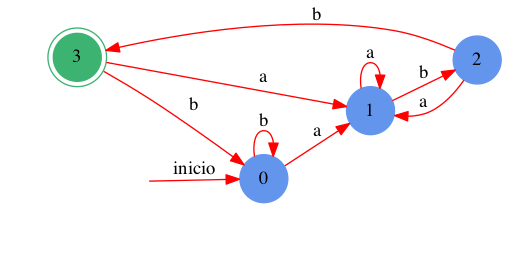
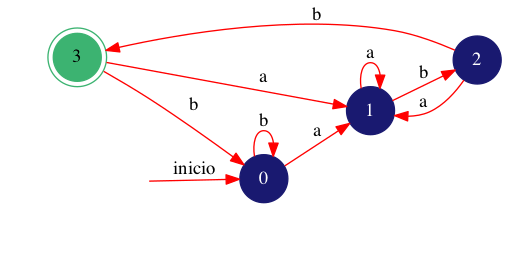
Arreglar árbol sintáctico

Changed region(s): [[0.8876, 0.1231, 1.0, 0.3385], [0.6805, 0.3077, 0.7988, 0.5231], [0.4734, 0.5846, 0.5917, 0.8]]

diff --git a/src/thomson/SyntaxTree.java b/src/thomson/SyntaxTree.java
@@ -8,6 +8,7 @@ package thomson;
 import java.util.ArrayList;
 import java.util.LinkedList;
 import java.util.Queue;
+import java.util.Stack;
 
 
 /**
@@ -19,7 +20,7 @@ public class SyntaxTree<T> {
 
     private Nodo<T> root;       //nodo raiz del arbol
     private Nodo<T> actual;     //un nodo actual, sirve para despues definir el raiz
-    private Queue pila;         //en realidad es una cola, para meter nodos
+    private Stack pila;         //en realidad es una cola, para meter nodos
     private ArrayList arrayNodos;//se guardan todos los nodos creados
     
     
@@ -29,7 +30,7 @@ public class SyntaxTree<T> {
     */
     public SyntaxTree(){
         this.arrayNodos = new ArrayList();
-        this.pila = new LinkedList();
+        this.pila = new Stack();
         this.root= new Nodo("");
     }
 
@@ -40,6 +41,7 @@ public class SyntaxTree<T> {
     public void buildTree(String cadenaEnPrefix){
         
         this.root = new Nodo(cadenaEnPrefix);
+        pila.add(this.root);
         buildPostFixTree((Nodo<T>) this.root);
         this.root=this.actual;
         
@@ -53,22 +55,24 @@ public class SyntaxTree<T> {
      */
     private void buildPostFixTree(Nodo<T> nodo){
        
+      
         String texto_postfix = (String) nodo.getRegex();
+       
         char letra_inicial = texto_postfix.charAt(0);
        
+        System.out.println("letra inicial " + letra_inicial);
         //verificar si es un símbolo. Si lo es poner de una vez en la rama
         if(letra_inicial!='*'&&letra_inicial!='|'&&letra_inicial!='.'){
             
             String sub_cadena = texto_postfix.substring(1);
-          
+            System.out.println(sub_cadena);
             Nodo nuevo = new Nodo((sub_cadena));
             nuevo.setId(""+letra_inicial);
             nuevo.setIsLeaf(true);
             arrayNodos.add(nuevo);
             
             //nuevo.setIsLeaf(true);
-            if (pila.isEmpty())
-                pila.add(nodo);
+           
             pila.remove(this.root);
             pila.add(nuevo);
             buildPostFixTree(nuevo);
@@ -85,10 +89,11 @@ public class SyntaxTree<T> {
                 //obtener un operador
                 //se le asigna el nombre al nodo principal
                 String sub_cadena = texto_postfix.substring(1);
+                System.out.println(sub_cadena);
                 Nodo nuevo = new Nodo(sub_cadena);
                 nuevo.setId((T) (""+letra_inicial));
                 
-                Nodo nodoPila = nodo;
+                Nodo nodoPila = (Nodo)pila.pop();
                 nuevo.setIzquierda(nodoPila);
                 arrayNodos.add(nuevo);
                 
@@ -97,6 +102,7 @@ public class SyntaxTree<T> {
                 nodo.setIzquierda(new Nodo(obtener_operando(sub_cadena)));
                 //para generar recursivamente el nodo*/
                 pila.add(nuevo);
+                buildPostFixTree(nuevo);
                
            
             }
@@ -110,21 +116,22 @@ public class SyntaxTree<T> {
                
                
                 String sub_cadena = texto_postfix.substring(1);
+                System.out.println(sub_cadena);
                /* String primer_operando = this.obtener_operando(sub_cadena);
                 String segundo_operando = this.obtener_operando(sub_cadena.substring(primer_operando.length()));*/
                 Nodo nuevo = new Nodo(sub_cadena);
                 nuevo.setId(""+letra_inicial);
               
-                nuevo.setIzquierda((Nodo) pila.poll());
+                nuevo.setDerecha((Nodo) pila.pop());
                
                 //nodo.setIzquierda(new Nodo(primer_operando));
                 //para generar recursivamente el nodo hijo izquierdo
                
                 //buildPostFix(nuevo.getIzquierda());
                 if (!pila.isEmpty())
-                    nuevo.setDerecha((Nodo)pila.poll());
+                    nuevo.setIzquierda((Nodo)pila.pop());
                 else
-                    nuevo.setDerecha(nodo);
+                    nuevo.setIzquierda(nodo);
                 //el hijo izquierdo dejarlo vacío...
                 //odo.setDerecha(new Nodo(segundo_operando));
                 //para generar recursivamente el nodo hijo izquierdo
@@ -132,18 +139,20 @@ public class SyntaxTree<T> {
                  pila.add(nuevo);
                  arrayNodos.add(nuevo);
                  this.actual = nuevo;
+                 if (!sub_cadena.isEmpty())
+                    buildPostFixTree(nuevo);
                 
             }
         }//cierra else if leaf
-        if (!pila.isEmpty()){
-            Nodo siguiente = (Nodo) pila.poll();
+       /* if (!pila.isEmpty()){
+            Nodo siguiente = (Nodo) pila.pop();
             //verificar que no sea el ultimo a evaluar
             if (!siguiente.getRegex().equals("")){
                 buildPostFixTree(siguiente);
                 
             }
           
-        }
+        }*/
         
         
         

diff --git a/src/thomson/Simulacion.java b/src/thomson/Simulacion.java
@@ -8,6 +8,7 @@ package thomson;
 
 import java.io.File;
 import java.io.FileWriter;
+import java.io.IOException;
 import java.util.ArrayList;
 import java.util.HashSet;
 import java.util.Iterator;
@@ -145,6 +146,7 @@ public class Simulacion {
          * http://www.graphviz.org/
          * https://en.wikipedia.org/wiki/DOT_(graph_description_language)
          * http://rich-iannone.github.io/DiagrammeR/graphviz.html
+         * http://www.graphviz.org/doc/info/shapes.html
          */
      public String generarDOT(String nombreArchivo,Automata automataFinito){
         String texto = "digraph automata_finito {\n";
@@ -161,7 +163,7 @@ public class Simulacion {
         //
         texto+=";"+"\n";
         texto +="\tnode [shape=circle];"+"\n";
-        texto +="\tnode [color=cornflowerblue];\n" +"	edge [color=red];"+"\n";
+        texto +="\tnode [color=midnightblue,fontcolor=white];\n" +"	edge [color=red];"+"\n";
         texto +="\t secret_node [style=invis];\n" + "	secret_node -> "+automataFinito.getEstadoInicial()+" [label=\"inicio\"];" + "\n";
 	//transiciones
         for(int i=0;i<automataFinito.getEstados().size();i++){
@@ -190,22 +192,30 @@ public class Simulacion {
             TextOut.write(texto);
            
             TextOut.close();
-        } catch (Exception ex) {
+        } catch (IOException ex) {
           
         }
         
-        String[] cmdArray = new String[2];
+        /*String[] cmdArray = new String[2];
         cmdArray[0] = "/opt/local/bin/dot";
-        cmdArray[1] = "-Tpng "+path+archivo + " > "+path+nombreArchivo+".png";
+        cmdArray[1] = "-Tpng "+path+archivo + " > "+path+nombreArchivo+".png";*/
         String comando = "dot -Tpng "+path+archivo + " > "+path+nombreArchivo+".png";
         try
         {
-           /* directorio/ejecutable es el path del ejecutable y un nombre */
-           Process p = Runtime.getRuntime().exec(cmdArray);
+            ProcessBuilder pbuilder;
+
+            /*
+             * Realiza la construccion del comando    
+             * en la linea de comandos esto es: 
+             * dot -Tpng -o archivo.png archivo.dot
+             */
+            pbuilder = new ProcessBuilder( "/opt/local/bin/dot", "-Tpng", "-o",path+nombreArchivo+".png",path+archivo );
+            pbuilder.redirectErrorStream( true );
+            //Ejecuta el proceso
+            pbuilder.start();
         }
-        catch (Exception e)
+        catch (IOException e)
         {
-            e.printStackTrace();
            /* Se lanza una excepción si no se encuentra en ejecutable o el fichero no es ejecutable. */
         }
         System.out.println("Ejecute el siguiente comando");

diff --git a/src/thomson/AFDConstructor.java b/src/thomson/AFDConstructor.java
@@ -358,6 +358,11 @@ public class AFDConstructor {
         
         estadosCreados.add(conversionInicial);
         
+         for (Nodo temp: (ArrayList<Nodo>)conversionInicial){
+            if (temp.getId().equals("#"))
+                afd_result.addEstadosAceptacion(inicial);
+        }
+        
         int indexEstadoInicio=0;
         int indexEstados=1;
         //La cola sirve para evaluar los nodos nuevos creados
@@ -394,7 +399,7 @@ public class AFDConstructor {
 
                     cola.add(temporal);
                     estadosCreados.add(temporal);
-                    
+                   
                     //verificar si tiene el # que define el estado de aceptacion
                     for (Nodo temp: (ArrayList<Nodo>)temporal){
                         if (temp.getId().equals("#"))
@@ -412,6 +417,7 @@ public class AFDConstructor {
             }
             indexEstadoInicio++;
         }
+        System.out.println(afd_result);
         this.afdDirecto=afd_result;
         
     }
@@ -454,7 +460,7 @@ public class AFDConstructor {
       
             
         
-        ArrayList<Integer> Ds = new ArrayList();
+       
         int key= 0;
         HashMap<Estado,ArrayList<Integer>> L = new HashMap();
         
@@ -462,7 +468,7 @@ public class AFDConstructor {
            ArrayList<Estado> grupoG = particionP.get(p);
             System.out.println(grupoG);
             for (Estado s: grupoG){
-                
+                 ArrayList<Integer> Ds = new ArrayList();
                 //System.out.println(s.getTransiciones());
                 for (String alfabeto: (HashSet<String>)AFD.getAlfabeto()){
                     Estado t = simulador.move(s, alfabeto);
@@ -503,9 +509,9 @@ public class AFDConstructor {
             */
             int i = 0;
            
-            ArrayList Ki = new ArrayList();
-           
-                 HashMap<ArrayList<Integer>, ArrayList<Estado>> tabla2 = new HashMap();
+         ArrayList Ki = new ArrayList();
+         while (!L.isEmpty()){  
+                HashMap<ArrayList<Integer>, ArrayList<Estado>> tabla2 = new HashMap();
                 for (Estado e : grupoG) {
                         ArrayList<Integer> alcanzados = L.get(e);
                         if (tabla2.containsKey(alcanzados))
@@ -520,7 +526,7 @@ public class AFDConstructor {
                 
              
              
-                i++;
+            i++;
                 
             
             System.out.println("----");
@@ -540,7 +546,7 @@ public class AFDConstructor {
            
         }
          System.out.println(particionP);
-        
+        }
         
     }
     /**

diff --git a/src/thomson/Nodo.java b/src/thomson/Nodo.java
@@ -93,13 +93,13 @@ public class Nodo<T> implements Comparable<Nodo>{
         String res = "";
          
             if (id!=null)
-                res += getId();
-            if (izquierda!=null)
-                res += getIzquierda();
+                res += this.id;
+            if (izquierda.getId()!=null)
+                res += this.izquierda.preOrder();
            
-            if (derecha!=null)
-                res += getDerecha();
-            
+            if (derecha.getId()!=null)
+                res += this.derecha.preOrder();
+           
             return res;
      
     }

diff --git a/src/thomson/AutomataMain.java b/src/thomson/AutomataMain.java
@@ -120,7 +120,7 @@ public class AutomataMain {
         simulador.generarDOT("AFN", afn_result);
         simulador.generarDOT("AFD_Subconjuntos", afd_result);
         simulador.generarDOT("AFD_Directo", afd_directo);
-        //System.out.println(AFD.getAfdDirecto());
+       
         //AFD.minimizacionAFD();
         
         simulador.generarDOT("afn", afn_result);
